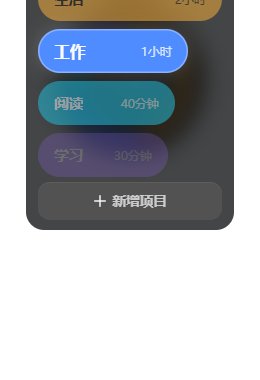
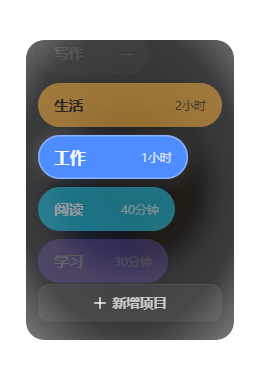
fix(widget): 柔化浮层边缘 + 修「表盘贴在窗口顶端导致浮层被裁」
用户："把这个悬浮的黑框边缘做的模糊一点，别这么突兀。"

## 边缘柔化要两层一起做
① 底色改径向渐变收边（中心实、边缘淡）
② **再用 mask 让整块元素（含 backdrop-filter 的模糊）在边缘淡出**

⚠ 只做①不够：`backdrop-filter` 的作用范围是元素的**矩形边界**，
底色淡了但背后的模糊仍是硬边，照样突兀。mask 才能把模糊一起淡掉。
底部按钮从 bottom:10 提到 18 —— 下方要留出淡出带，否则按钮会被一起淡掉。

## 顺带修掉一个一直存在的问题
面板用 `absolute` 相对**表盘**居中，但**表盘原来贴在窗口顶端**
（260×380 的窗口里，152 的盘落在 y≈4..156）→ 300 高的面板以它为中心，
顶部 70px 直接跑到窗口外被裁掉。
修：`body.widget-mode { display:flex; align-items:center; justify-content:center }`
把表盘在窗口里居中。实测面板现在完整落在 [26,40,234,340]，四周都有余量。

**这也是"浮层遮罩"能成立的前提：表盘在窗口正中，任何以它为中心的浮层才不会跑出去。**

diff --git a/site/style.css b/site/style.css
@@ -623,15 +623,28 @@ textarea:focus { border-color: var(--primary); background: #fff; }
   transform: translate(-50%, -50%);
   border-radius: 18px;
   overflow: hidden;
-  background: rgba(9, 10, 12, .76);
+  /* 边缘柔化，两层一起做：
+     ① 底色用径向渐变收边（中心实、边缘淡）
+     ② 再用 mask 让**整块元素**（含 backdrop-filter 的模糊）在边缘淡出。
+     ⚠ 只做①是不够的：backdrop-filter 的作用范围是元素的矩形边界，
+        底色淡了但它背后的模糊仍然是硬边，照样突兀。 */
+  background: radial-gradient(ellipse 92% 86% at 50% 47%,
+    rgba(9, 10, 12, .88) 0%,
+    rgba(9, 10, 12, .80) 58%,
+    rgba(9, 10, 12, .52) 84%,
+    rgba(9, 10, 12, 0) 100%);
   -webkit-backdrop-filter: blur(11px) saturate(125%);
   backdrop-filter: blur(11px) saturate(125%);
+  -webkit-mask-image: radial-gradient(ellipse 108% 106% at 50% 50%,
+    #000 82%, rgba(0, 0, 0, .72) 92%, rgba(0, 0, 0, 0) 100%);
+  mask-image: radial-gradient(ellipse 108% 106% at 50% 50%,
+    #000 82%, rgba(0, 0, 0, .72) 92%, rgba(0, 0, 0, 0) 100%);
   opacity: 1; transition: opacity 140ms ease;
 }
 #widget-pick.hidden { opacity: 0; pointer-events: none; }
 
 /* 列表区避开底部那一格 */
-#widget-pick-list { position: absolute; left: 0; right: 0; top: 0; bottom: 58px; }
+#widget-pick-list { position: absolute; left: 0; right: 0; top: 0; bottom: 66px; }
 
 .wp-row {
   position: absolute; left: 12px; right: 12px;
@@ -663,7 +676,8 @@ textarea:focus { border-color: var(--primary); background: #fff; }
 /* ── 「新增项目」：底部独立一格，只接受点击 ──
    与分类条刻意不同：方形圆角、居中、上方一道分隔线、无进度线、不参与停留。 */
 #widget-pick-add {
-  position: absolute; left: 12px; right: 12px; bottom: 10px; height: 38px;
+  /* bottom 留 18px：下方要留出柔化的淡出带，否则按钮会被一起淡掉 */
+  position: absolute; left: 12px; right: 12px; bottom: 18px; height: 38px;
   display: flex; align-items: center; justify-content: center; gap: 7px;
   border: 0; cursor: pointer;
   border-radius: 12px;                  /* 圆角比方一点，与胶囊状分类条区分开 */
@@ -682,3 +696,9 @@ textarea:focus { border-color: var(--primary); background: #fff; }
 }
 .wp-plus::before { left: 0; top: 5px; width: 12px; height: 2px; }
 .wp-plus::after { left: 5px; top: 0; width: 2px; height: 12px; }
+
+/* 表盘在组件窗口里居中。
+   原来它贴在窗口顶端（260×380 的窗口里，152 的盘落在 y≈4..156），
+   于是任何"以表盘为中心"的浮层都会被窗口上边缘裁掉。
+   #widget-pick 用 absolute 相对表盘居中（不是相对窗口），前提就是表盘本身得在窗口正中。 */
+body.widget-mode { display: flex; align-items: center; justify-content: center; }
